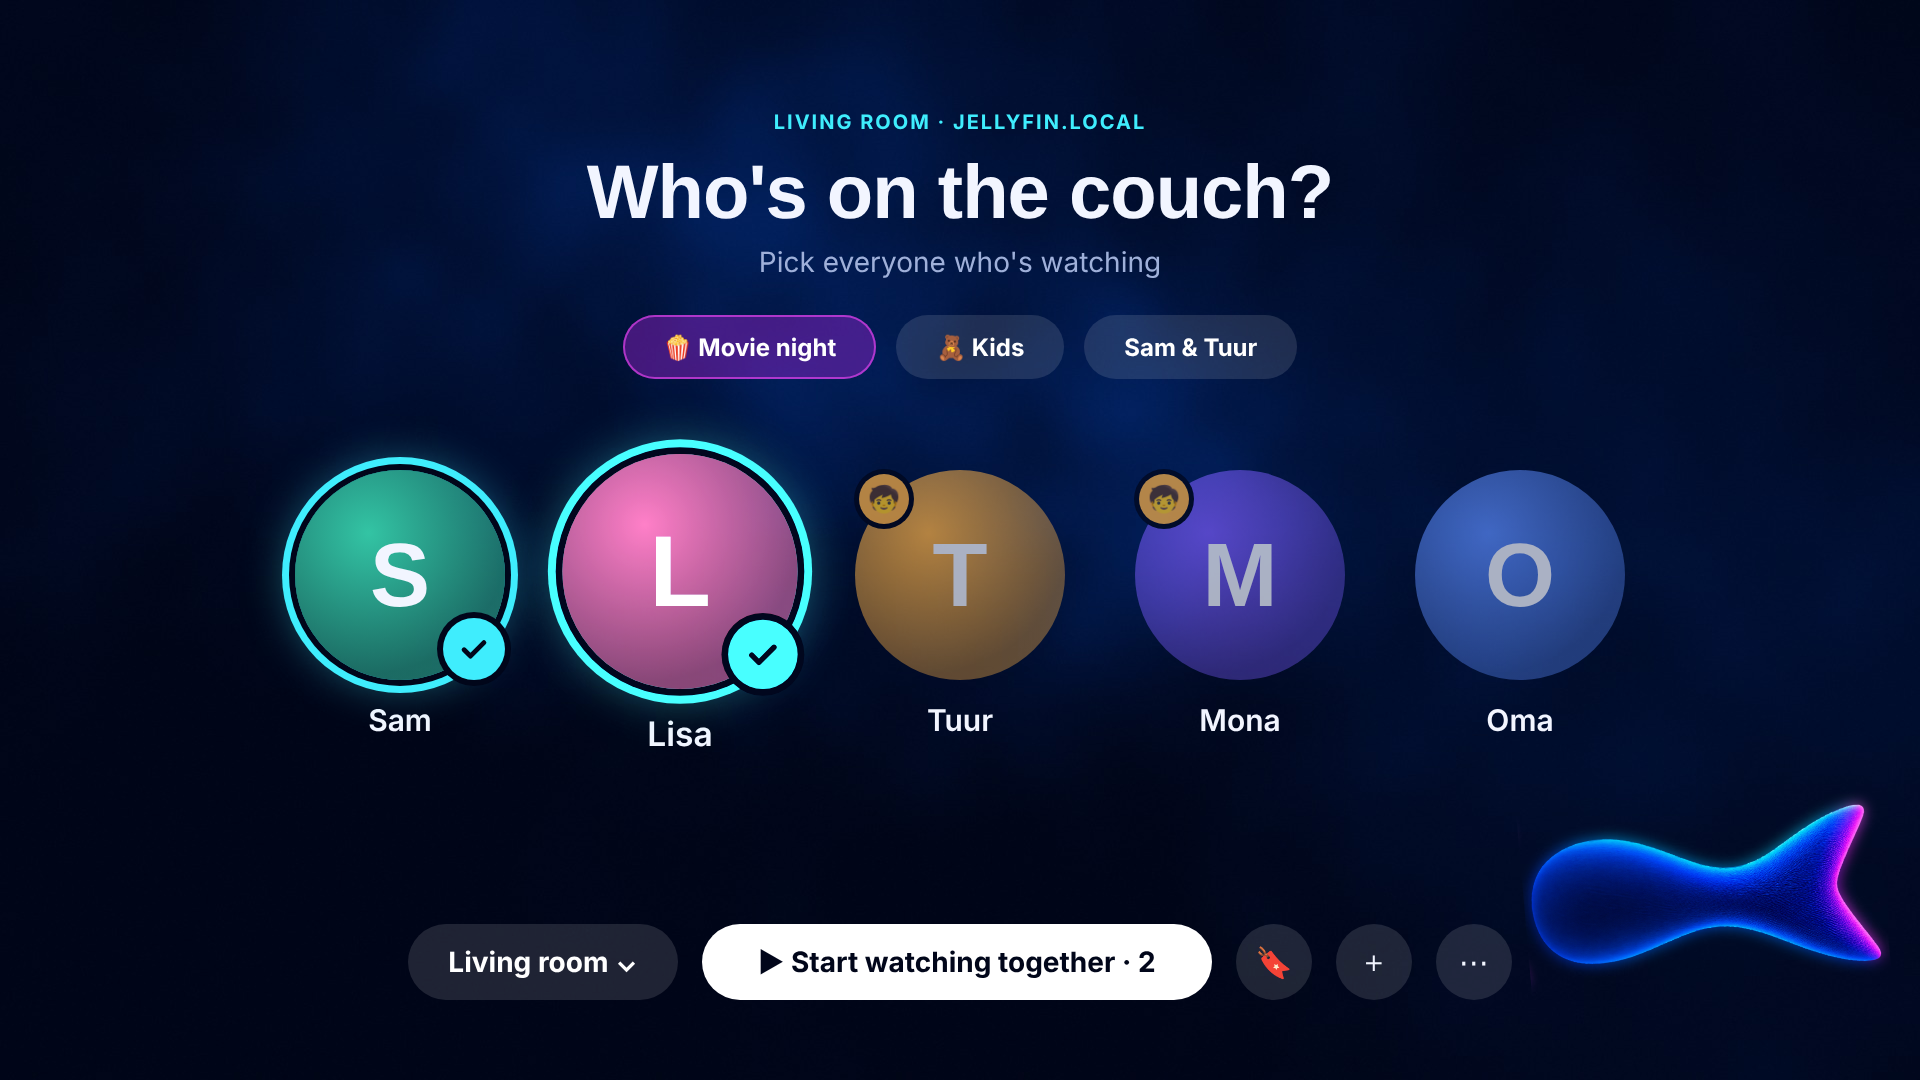
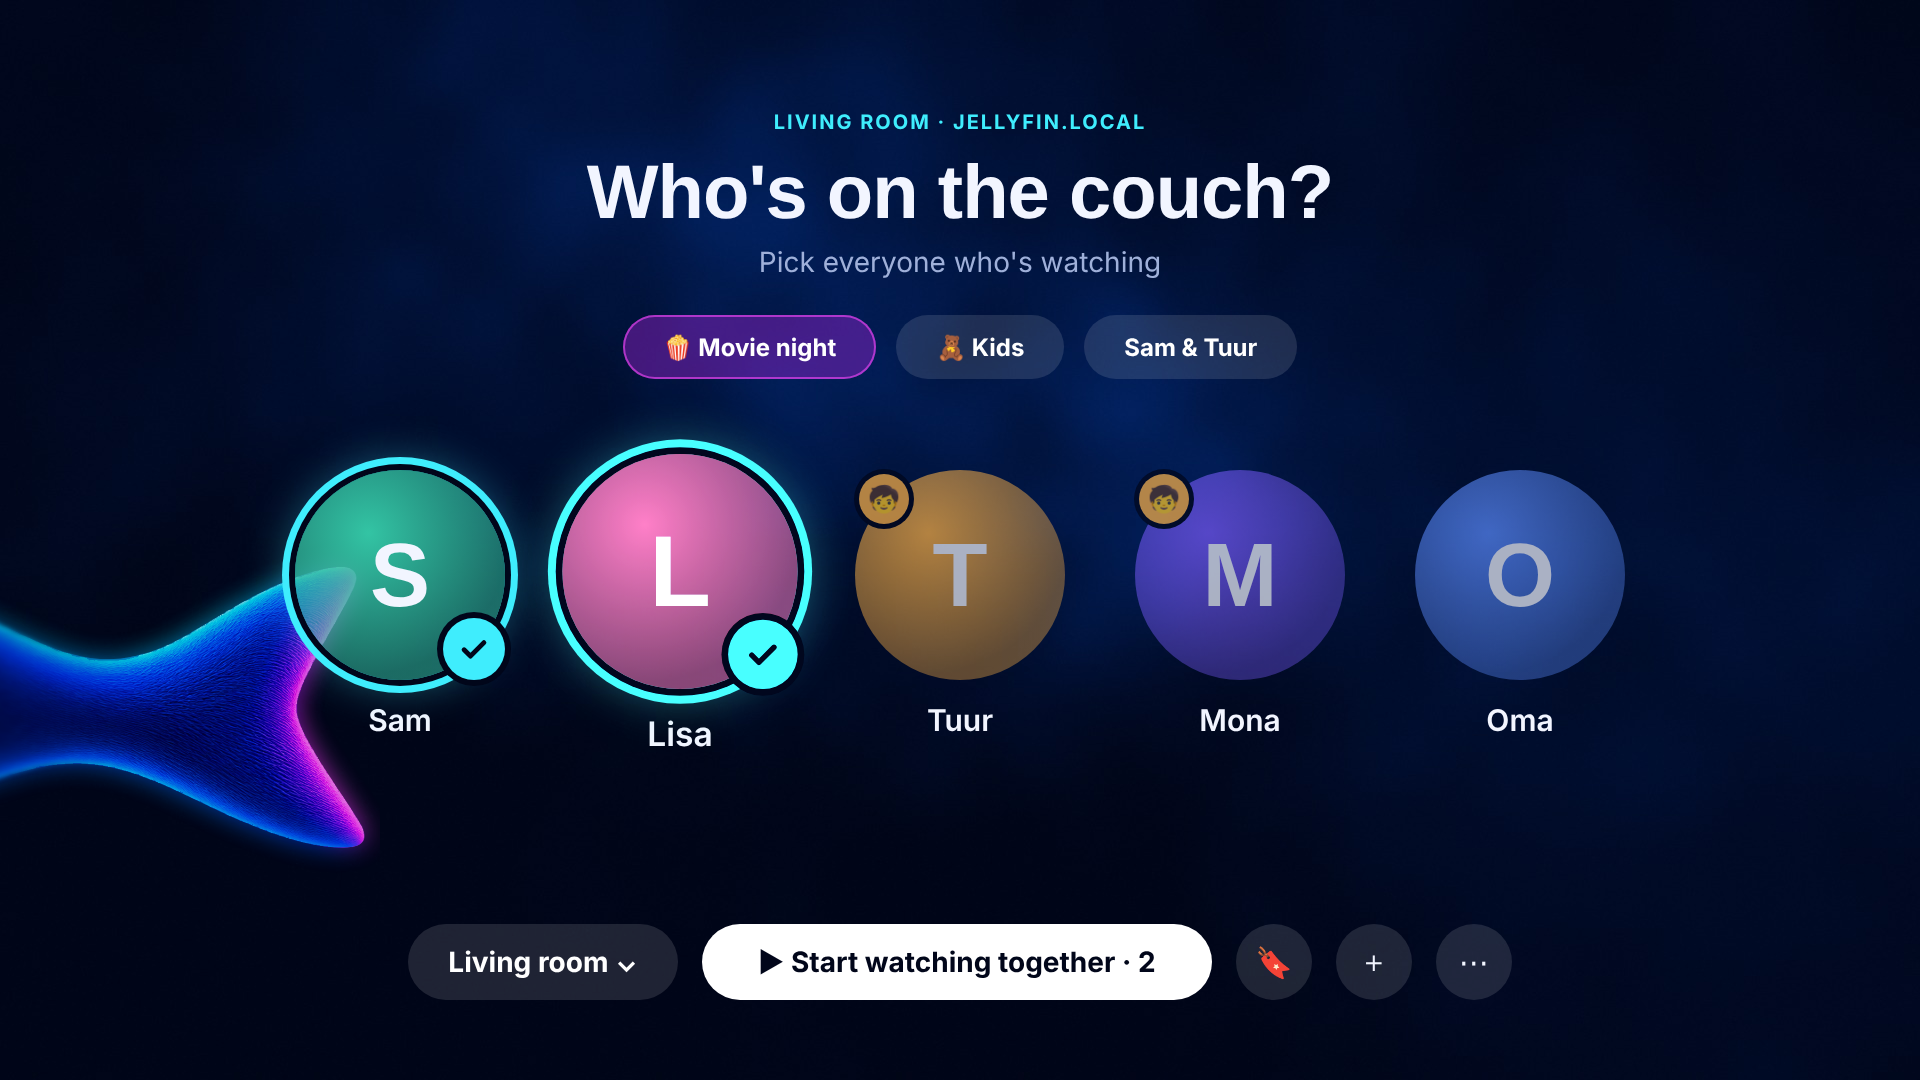
docs: tvOS mockups with the swimming fin, Top Shelf rows mockup
Claude-Session: https://claude.ai/code/session_01NFoCCgUvaMmyLDTnEX6PVL

Changed region(s): [[0.0, 0.5194, 0.2188, 0.7944], [0.7812, 0.7333, 1.0, 0.9167]]

diff --git a/Documentation/design/mockups/16-tv-topshelf-rows.html b/Documentation/design/mockups/16-tv-topshelf-rows.html
@@ -1,0 +1,24 @@
+<!doctype html><html><head><meta charset="utf-8"><link rel="stylesheet" href="tv.css"><style>
+.shelf{position:absolute;left:0;right:0;top:0;height:690px;background:linear-gradient(180deg,#0b1030,#04060f)}
+.sec{position:absolute;left:90px;font:600 24px Inter;color:rgba(255,255,255,.75)}
+.it{flex:none;border-radius:14px;position:relative;overflow:hidden}
+.it .p{position:absolute;left:12px;right:12px;bottom:10px;height:6px;border-radius:3px;background:rgba(255,255,255,.3)}.it .p i{display:block;height:100%;border-radius:3px;background:#fff}
+.it.f{transform:scale(1.12);box-shadow:0 24px 40px rgba(0,0,0,.6);z-index:2}
+.cap{font:600 20px Inter;color:#fff;margin-top:14px;text-align:center}
+.apps{position:absolute;left:90px;top:780px;display:flex;gap:44px}
+.app{width:300px;height:180px;border-radius:22px;flex:none;background:#2a2d36}
+.app.f{transform:scale(1.15);box-shadow:0 30px 50px rgba(0,0,0,.7)}
+</style></head><body><div class="tv" style="background:#000">
+<div class="shelf"></div>
+<div class="sec" style="top:60px">Continue · Sam &amp; Lisa</div>
+<div class="row" style="position:absolute;left:90px;top:110px;gap:36px;align-items:flex-start">
+ <div><div class="it f" data-poster="Harbor Lights" data-notitle="1" style="width:454px;height:256px"><div class="p"><i style="width:62%"></i></div></div><div class="cap" style="margin-top:28px">Harbor Lights · S2E4</div></div>
+ <div><div class="it" data-poster="Saltwater Kids" data-notitle="1" style="width:454px;height:256px"><div class="p"><i style="width:30%"></i></div></div></div>
+ <div><div class="it" data-poster="Northbound" data-notitle="1" style="width:454px;height:256px"><div class="p"><i style="width:80%"></i></div></div></div>
+</div>
+<div class="sec" style="top:470px">Just landed</div>
+<div class="row" style="position:absolute;left:90px;top:515px;gap:30px;align-items:flex-start">
+<script>document.write(['Paper Moons','Glasshouse','Small Hours','Kilowatt','Monday Club','Ice Station 9','Tidewater','The Orchard'].map(t=>`<div class="it" data-poster="${t}" data-notitle="1" style="width:200px;height:300px"></div>`).join(''))</script>
+</div>
+<div class="apps" style="top:850px"><div class="app f" style="background:url(tv-icon.png) center/cover"></div><div class="app" style="background:linear-gradient(135deg,#e50914,#7a0610)"></div><div class="app" style="background:linear-gradient(135deg,#1c1c1e,#3a3a3c)"></div><div class="app" style="background:linear-gradient(135deg,#0b5cff,#0a2a80)"></div><div class="app" style="background:linear-gradient(135deg,#ff2d55,#5c0a1c)"></div></div>
+</div><script src="posters.js"></script></body></html>

diff --git a/Documentation/design/mockups/14-tv-settings.html b/Documentation/design/mockups/14-tv-settings.html
@@ -7,7 +7,7 @@
 .cell .i{width:44px;text-align:center;font-size:30px}
 </style></head><body><div class="tv">
 <div class="abyss"></div>
-<img class="fin" src="fin-tail.png" style="width:760px;left:-60px;top:300px;transform:rotate(-4deg)">
+<img class="fin" src="fin-swimming.png" style="width:1000px;left:-330px;top:330px">
 <div class="tabs"><span>Sam &amp; Lisa</span><span>Shows</span><span>Movies</span><span>Search</span><span>Library</span><span class="on" style="padding:12px 20px">⚙</span></div>
 <div class="list">
  <div class="cell" style="height:120px;background:linear-gradient(90deg,rgba(18,56,255,.35),rgba(192,38,245,.2));box-shadow:inset 0 0 0 2px rgba(63,237,253,.25)"><span style="display:inline-flex"><span class="av" style="width:64px;height:64px;font-size:28px;background:#ff6fae">L</span><span class="av" style="width:64px;height:64px;font-size:28px;background:#33c4a4;margin-left:-18px">S</span></span><div><div class="r" style="font:800 32px 'SF Pro Rounded',Nunito,sans-serif">Sam &amp; Lisa</div><div style="font:500 22px Inter;color:var(--t2)">Living room · jellyfin.local</div></div><span class="v" style="color:#fff">Change who's watching ›</span></div>

diff --git a/Documentation/design/mockups/11-tv-picker.html b/Documentation/design/mockups/11-tv-picker.html
@@ -1,6 +1,6 @@
 <!doctype html><html><head><meta charset="utf-8"><link rel="stylesheet" href="tv.css"></head><body><div class="tv">
 <div class="abyss"></div>
-<img class="fin" src="fin-fish.png" style="width:360px;right:36px;top:800px;transform:rotate(-5deg)">
+<img class="fin" src="fin-swimming.png" style="width:700px;left:-320px;top:540px;opacity:.9">
 <div style="position:absolute;top:110px;left:0;right:0;text-align:center">
  <div class="kicker">Living room · jellyfin.local</div>
  <div class="r" style="font:900 76px 'SF Pro Rounded',Nunito,sans-serif;margin-top:14px;letter-spacing:-1px">Who's on the couch?</div>
